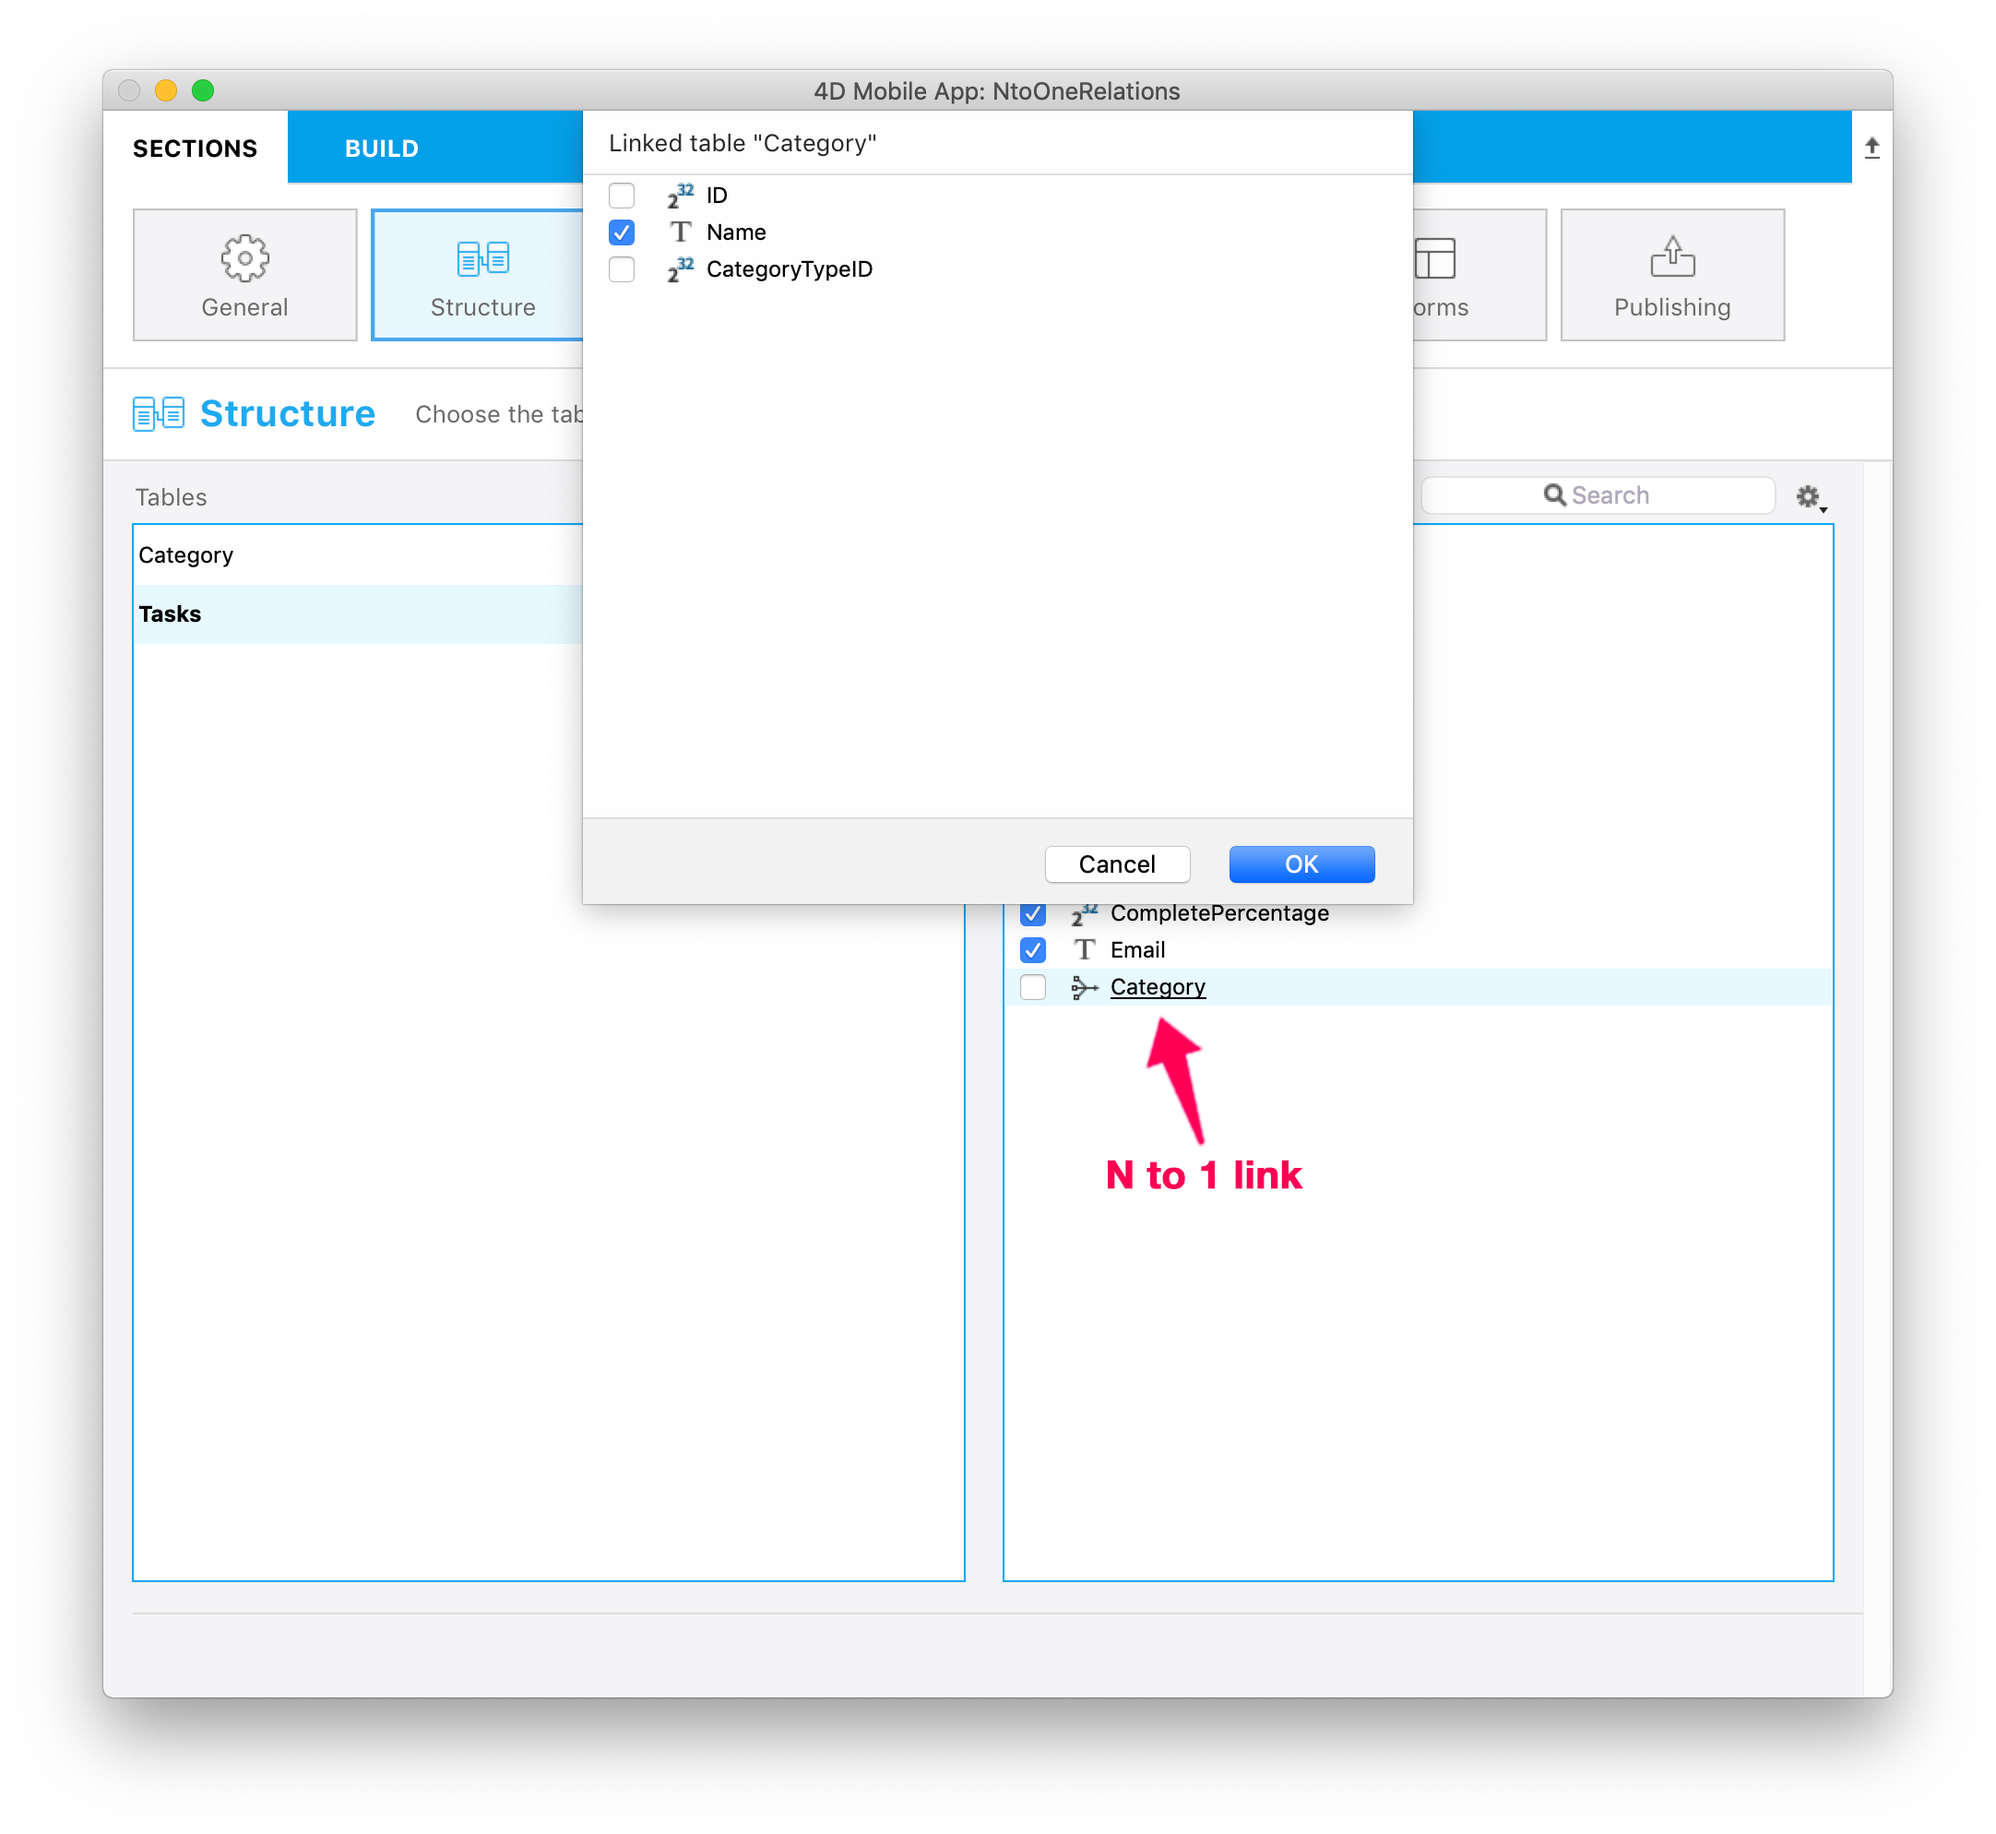
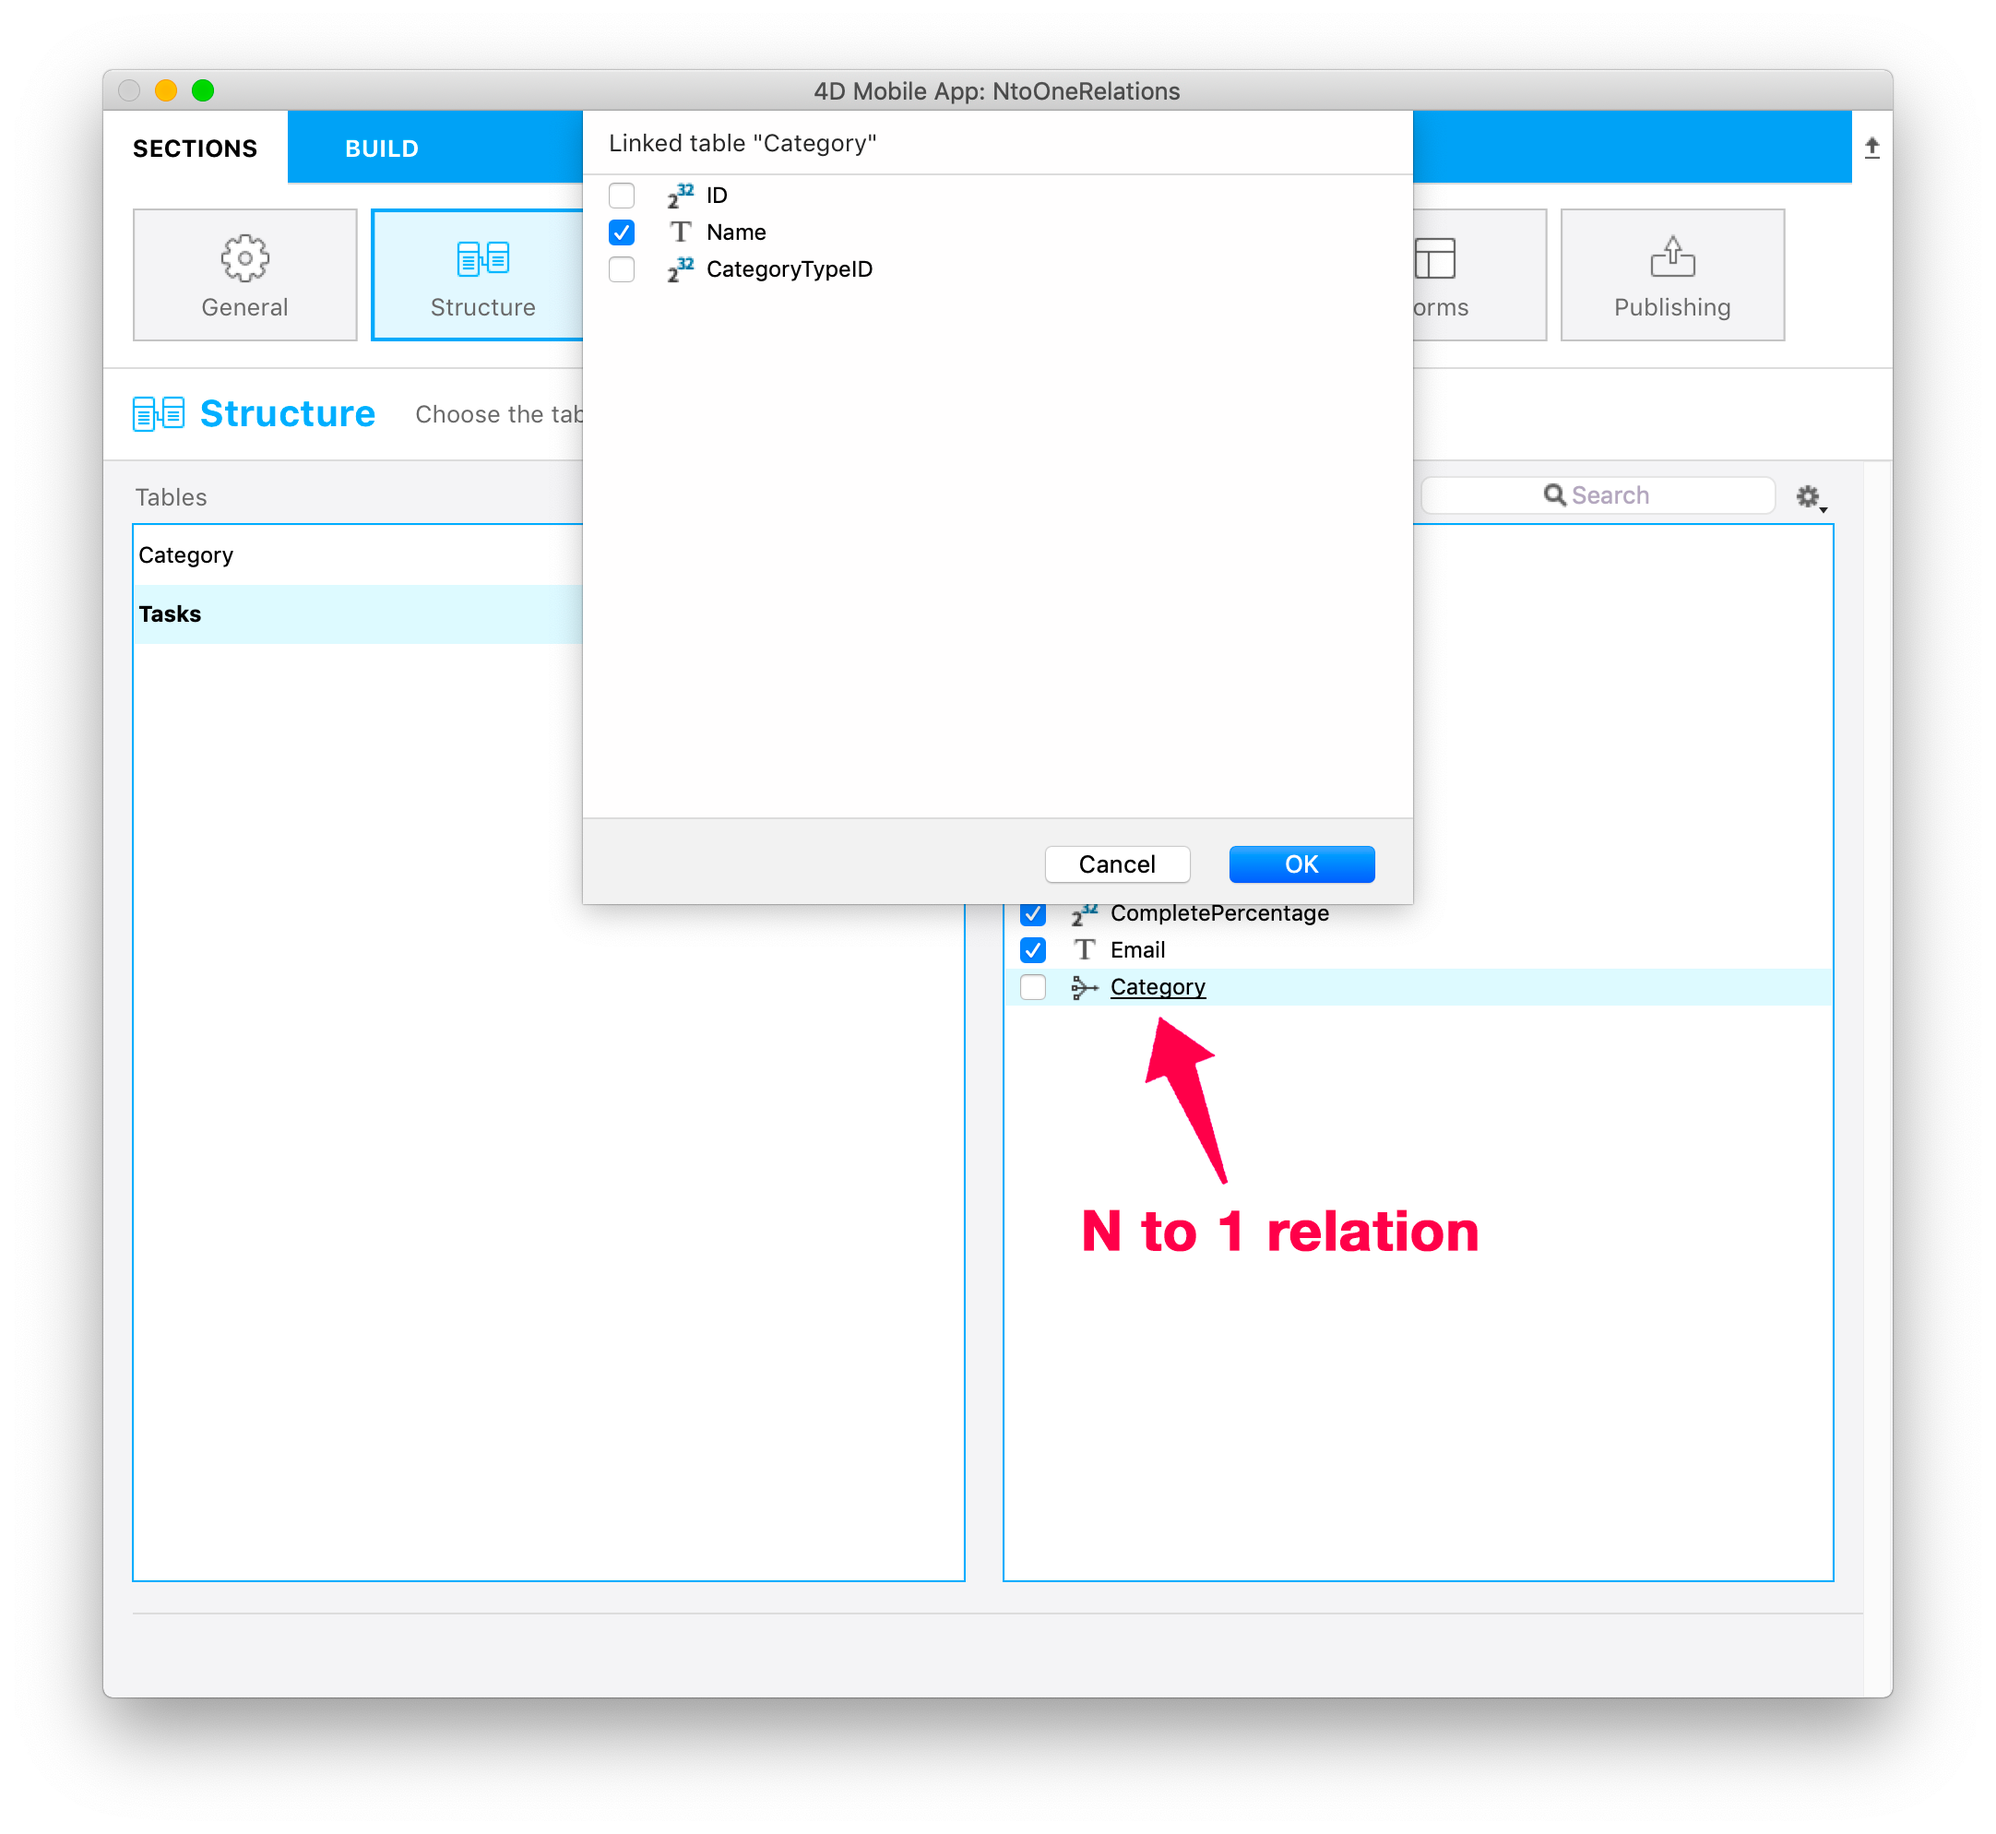
Update relations documentation

diff --git a/docs/Relations-N-to-one-relations.md b/docs/Relations-N-to-one-relations.md
@@ -12,8 +12,8 @@ sidebar_label: N to one relations
 
 **NOTE**
 
-In this tutorial, we will use the link names between your tables.
-Giving descriptive link names can make your project structure definition easier.
+In this tutorial, we will use the relation names between your tables.
+Giving descriptive relation names can make your project structure definition easier.
 
 </div>
 
@@ -32,9 +32,9 @@ Then go right to your Structure section and select the **Task table**.
 
 ### Structure section
 
-* You can notice that the **TaskCategory link** is underlined
+* You can notice that the **TaskCategory relation** is underlined
 
-* Clicking on it will display available fields through this link
+* Clicking on it will display available fields through this relation
 
 * Select the **Name field**
 
@@ -43,7 +43,7 @@ Then go right to your Structure section and select the **Task table**.
 
 * This field will operate as any other field for the rest of the app creation process
 
-* You can then select an icon as well as formatters and define short and long labels from the Labels and Icons section
+* You can then select an **icon** as well as **formatters** and define **short and long labels** from the Labels and Icons section
 
 ![Related field from Labels and Icons section](assets/relations/related-field-from-labels-icons.png)
 

diff --git a/docs/ProjectEditor-StructureSection.md b/docs/ProjectEditor-StructureSection.md
@@ -17,7 +17,7 @@ Here, you can define a subset of your physical structure to replicate for mobile
 
 **N to 1 relations**
 
-* 4D 17R5 allows you to visualize table links and select related fields clicking on the link. Then when your related fields are published, they can be used like any other field in the app creation process.
+* 4D 17R5 allows you to visualize table relations and select related fields clicking on a relation. Then when your related fields are published, they can be used like any other field in the app creation process.
 
 ![Publish related tables](assets/project-editor/Structure-section-N-to-1-relations-4D-for-iOS.png)
 
